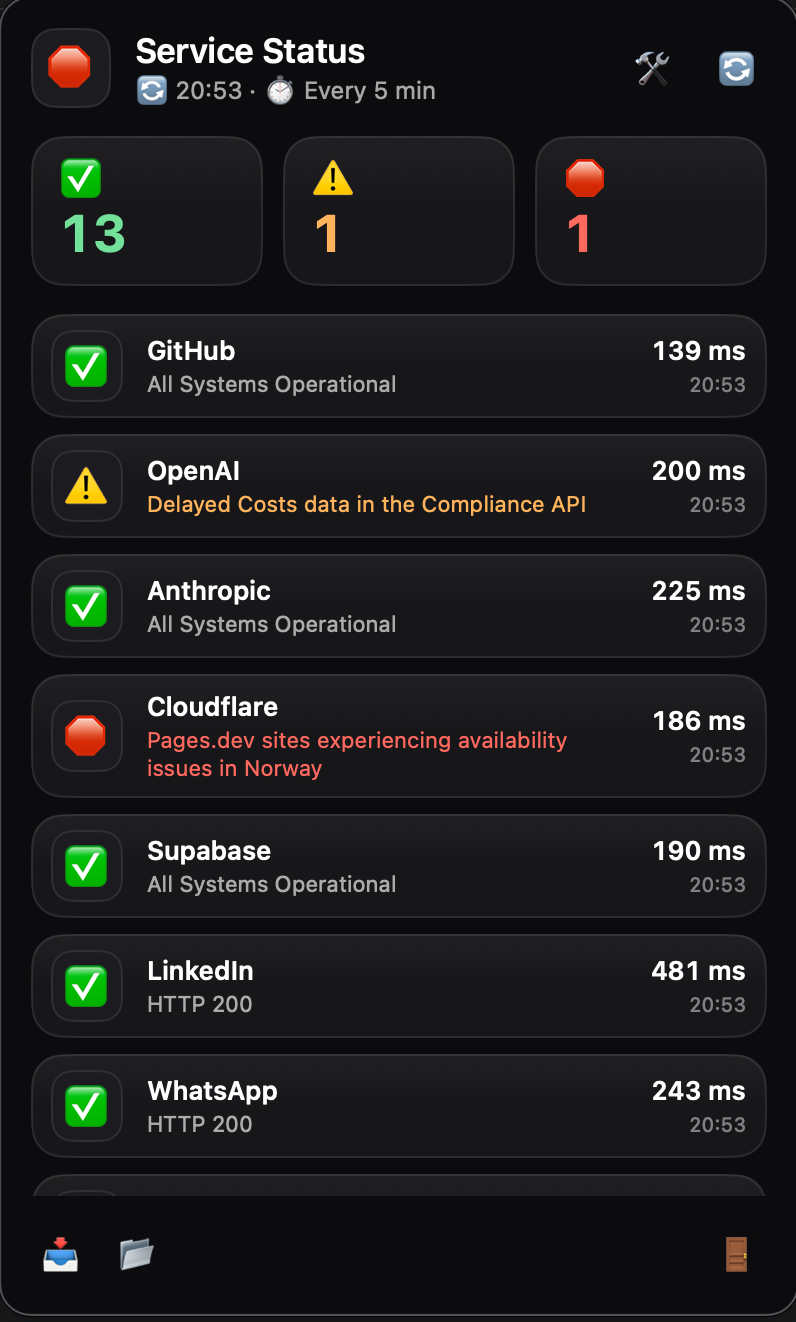
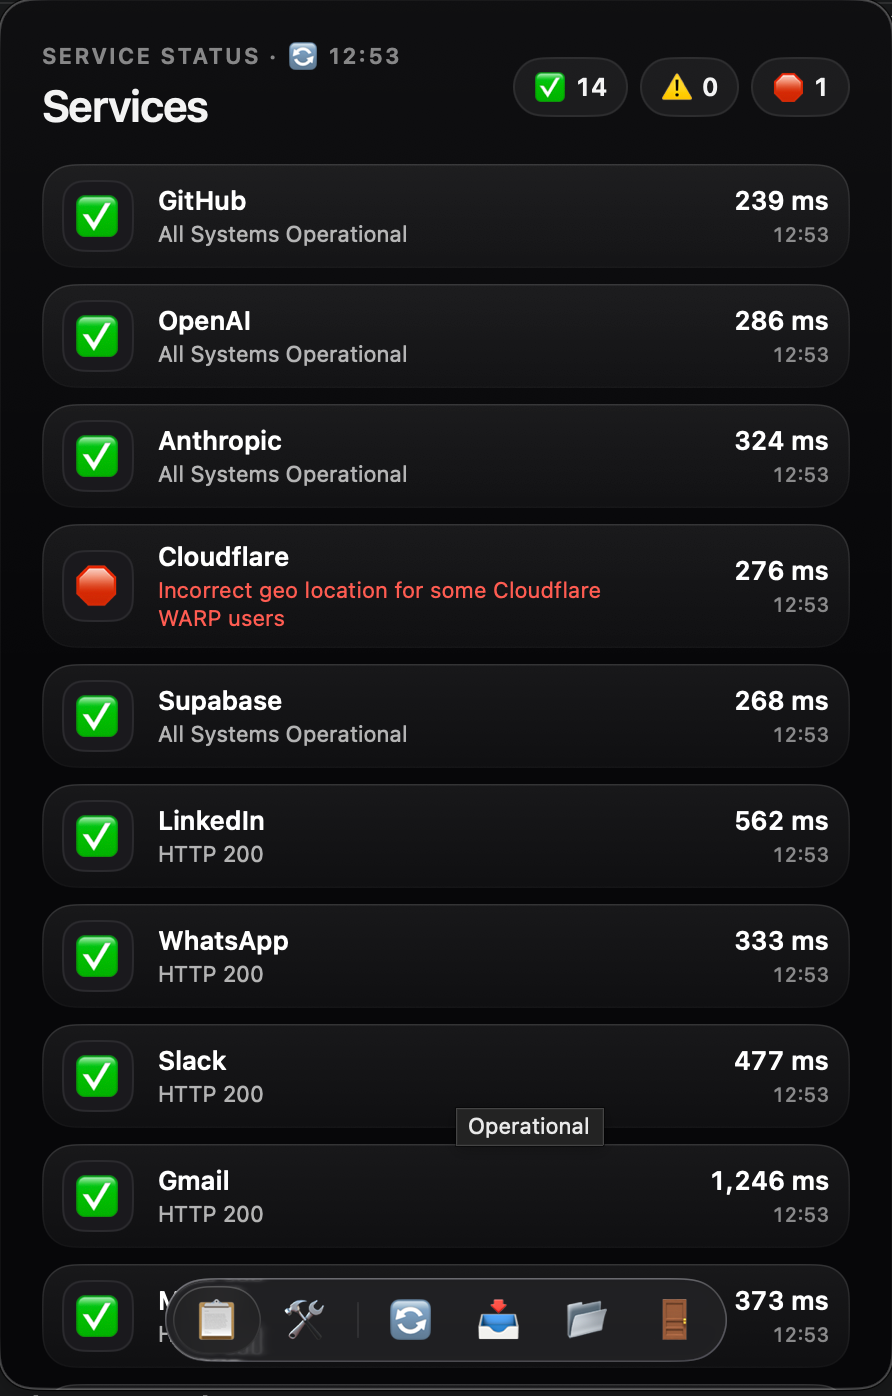
README: new screenshot, describe the glass panel, credit Hearth (MIT)

diff --git a/README.md b/README.md
@@ -4,9 +4,19 @@
 
 Service Status is a native SwiftUI app for the macOS menu bar. It has no account, no server, and no data collection.
 
-![Screenshot of the Service Status popover. A dark glass-style panel shows three counts (working, degraded, outage) above one rounded card for each service.](screenshot.png)
+<p align="center"><img src="screenshot.png" width="446" alt="Screenshot of the Service Status panel. Counts for working, degraded and outage sit beside the Services title. One rounded card per service shows its state emoji, status text, response time and last check. Cloudflare shows a red outage card. A glass dock floats at the bottom."></p>
 
-The interface uses a glass-style design: a floating glass title bar and a floating glass dock sit above a dark page that scrolls underneath them. Cards are rounded and every state is an emoji. Adding and removing services happens inside the same panel. Each state has its own shape, so colour is never the only signal. Every icon has a tooltip and a VoiceOver label.
+## The new interface
+
+The menu is a clear, borderless glass panel that drops from the menu bar. It replaces the plain system menu window.
+
+1. **Counts at a glance.** The title shows how many services are ✅ working, ⚠ degraded and 🛑 down, plus the time of the last check.
+2. **One card per service.** Each card shows the state, the status text, the response time and when it was checked. An outage turns its text red.
+3. **A title that stays put.** As you scroll, the heading fades and a slim glass title bar pins to the top.
+4. **A floating dock.** 📋 services, 🛠 manage, 🔄 refresh, 📥 reload the config, 📂 show the config in Finder, 🚪 quit. Adding and removing services happens inside the panel.
+5. **Accessible by design.** Each state has its own shape, so colour is never the only signal. Every icon has a tooltip and a VoiceOver label.
+
+The look is adapted from [Hearth](https://github.com/obileonardo/hearth-macos) by [obileonardo](https://github.com/obileonardo), under its MIT licence. The notice is kept in `Theme.swift`.
 
 ## How it works
 
@@ -160,8 +170,9 @@ The self-test is in the executable. Some macOS installations that have only the 
 | `ConfigurationLoader.swift` | JSON parsing, defaults, validation, and creation of the starter file |
 | `StatusChecker.swift` | Providers for Statuspage, HTTP, and JSON |
 | `StatusStore.swift` | Observable state, concurrent refresh, and polling loop |
-| `MenuBarContentView.swift` | Native popover: glass title bar, dock, service list, and the manage page |
-| `Theme.swift` | Colours, cards, the glass bar, and the dock tabs |
+| `MenuBarContentView.swift` | Panel content: glass title bar, dock, service list, and the manage page |
+| `Theme.swift` | Colours, cards, the glass bar, and the dock tabs (adapted from Hearth, MIT) |
+| `MenuPanel.swift` | Menu bar icon and the clear, borderless panel it opens |
 | `ServiceStatusMenuApp.swift` | SwiftUI app and menu bar entry point |
 | `build-app.sh` | Release build, `.app` bundling, and ad-hoc signing |
 
